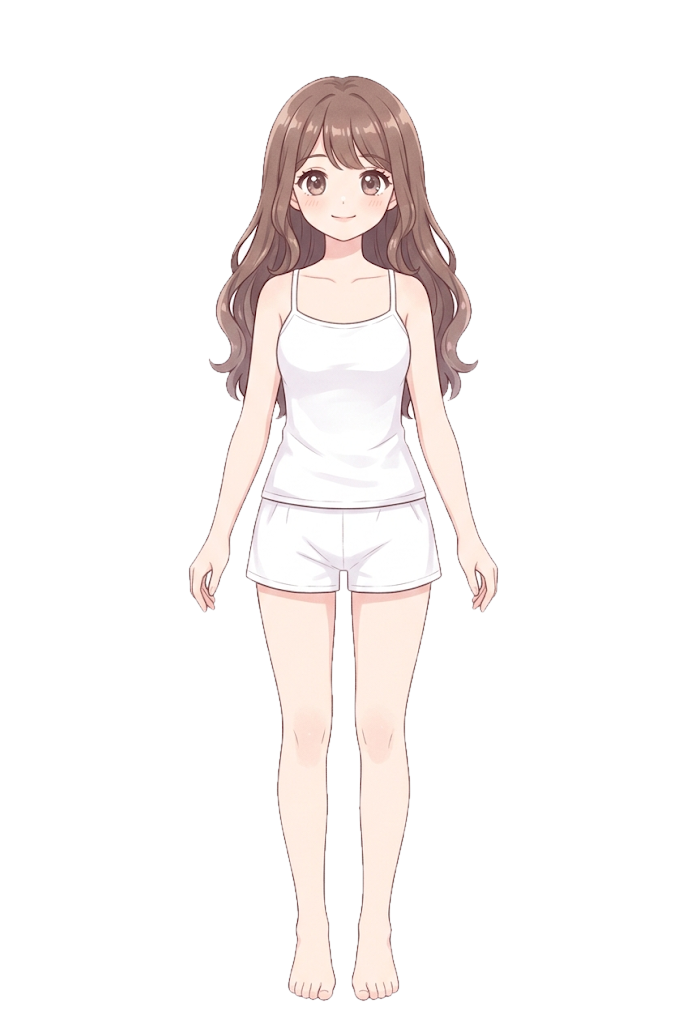
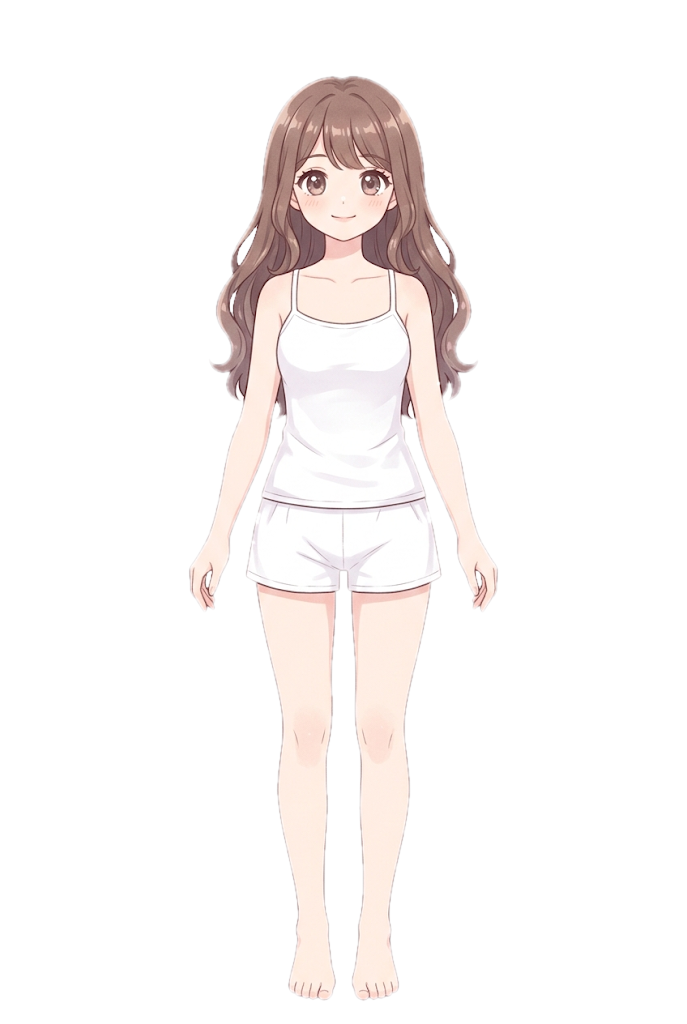
Add real layered dress-up to Dreamy Dress Up
The user's AI-edited outfit images are aligned to the base character with
optical flow, and the dress, glass heels and headband are cut out as
transparent layers. A new 'try on' mode stacks them on the base so items
can be put on and taken off. Extraction scripts kept in wardrobe/tools.

Claude-Session: https://claude.ai/code/session_016kUXdPkmavZc495ofuZ2Dx

diff --git a/wardrobe/index.html b/wardrobe/index.html
@@ -38,6 +38,13 @@ button:focus-visible, input:focus-visible { outline: 3px solid var(--pink); outl
 .stage { position: relative; border-radius: 28px; overflow: hidden; aspect-ratio: 455 / 1100; width: min(100%, calc((100vh - 190px) * 455 / 1100)); max-width: 100%; margin-inline: auto;
   box-shadow: 0 0 0 6px #fff, 0 0 0 7px var(--line), 0 24px 40px -22px rgba(160, 70, 110, .55); background: var(--pink-soft); }
 .stage img.look { position: absolute; inset: 0; width: 100%; height: 100%; object-fit: cover; object-position: 50% 100%; transition: opacity .45s ease; }
+.stage .doll { position: absolute; inset: 0; }
+.doll .dbg { position: absolute; inset: 0; width: 100%; height: 100%; object-fit: cover; }
+.doll .dlayers { position: absolute; left: 50%; bottom: 2%; height: 94%; aspect-ratio: 687 / 1024; transform: translateX(-50%); }
+.doll .dlayers img { position: absolute; inset: 0; width: 100%; height: 100%; }
+.doll .dlayers img.nofeet { -webkit-mask-image: linear-gradient(to bottom, #000 84.4%, transparent 84.6%); mask-image: linear-gradient(to bottom, #000 84.4%, transparent 84.6%); }
+.doll .dlayers img.pop { animation: pop .35s ease-out; }
+@keyframes pop { from { opacity: 0; transform: translateY(-6px); } }
 .stage .tint { position: absolute; inset: 0; mix-blend-mode: soft-light; pointer-events: none; transition: background .4s; }
 .logo { text-align: center; }
 .logo h1 { margin: 0; font-family: var(--font-logo); font-weight: 700; font-size: clamp(34px, 4vw, 44px); line-height: 1; color: var(--pink); text-shadow: 0 2px 0 #fff, 0 0 12px #fff; }
@@ -112,6 +119,7 @@ button:focus-visible, input:focus-visible { outline: 3px solid var(--pink); outl
 @keyframes drop { from { transform: translateY(-40px) rotate(6deg); opacity: 0; } }
 .polaroid .pimg { position: relative; aspect-ratio: 3 / 4; overflow: hidden; border-radius: 3px; }
 .polaroid .pimg img { width: 100%; height: 100%; object-fit: cover; object-position: 50% 12%; }
+.polaroid .pimg .doll .dlayers { height: 118%; bottom: auto; top: 2%; }
 .polaroid .pimg .tint { position: absolute; inset: 0; mix-blend-mode: soft-light; }
 .polaroid figcaption { font-family: var(--font-hand); font-size: 26px; color: var(--pink-deep); margin-top: 8px; line-height: 1.1; }
 .polaroid small { display: block; font-family: var(--font-body); font-size: 12px; color: var(--muted); text-align: right; font-variant-numeric: tabular-nums; }
@@ -129,7 +137,7 @@ button:focus-visible, input:focus-visible { outline: 3px solid var(--pink); outl
   .grid { grid-template-columns: repeat(auto-fill, minmax(96px, 1fr)); }
 }
 @media (prefers-reduced-motion: reduce) {
-  .spark, .polaroid { animation: none !important; }
+  .spark, .polaroid, .doll .dlayers img.pop { animation: none !important; }
   .stage img.look, .btn, .item .thumb, .look-btn img { transition: none; }
 }
 </style>
@@ -140,6 +148,7 @@ button:focus-visible, input:focus-visible { outline: 3px solid var(--pink); outl
       <div class="logo"><h1>Dreamy Dress Up</h1><p>나만의 스타일을 완성해봐요 ♡</p></div>
       <div class="stage" id="stage">
         <img class="look" id="lookImg" src="img/look1.jpg" alt="핑크 리본 블라우스와 체크 스커트를 입은 소녀">
+        <div class="doll" id="doll" hidden><img class="dbg" src="img/room-blur.jpg" alt=""><div class="dlayers" id="dlayers"></div></div>
         <div class="tint" id="tint"></div>
         <div class="note">오늘도<br>예쁜 너 ♡</div>
         <div class="stage-tools">
@@ -175,7 +184,7 @@ button:focus-visible, input:focus-visible { outline: 3px solid var(--pink); outl
 <div id="photo" hidden>
   <div class="photo-inner">
     <figure class="polaroid">
-      <div class="pimg"><img id="pImg" src="img/look1.jpg" alt=""><div class="tint" id="pTint"></div></div>
+      <div class="pimg" id="pBox"><img id="pImg" src="img/look1.jpg" alt=""><div class="tint" id="pTint"></div></div>
       <figcaption id="pCap">유리의 오늘 코디 ♡</figcaption>
       <small id="pDate"></small>
     </figure>
@@ -206,8 +215,17 @@ const DESC = {
   '체크 스커트': '레이어드 디테일이 있는 체크 스커트예요.', '와이드 팬츠': '편안한 연청 와이드 팬츠예요.',
   '메리제인': '리본이 달린 핑크 메리제인이에요.', '스니커즈': '깔끔한 화이트 스니커즈예요.', '롱부츠': '무릎까지 오는 블랙 롱부츠예요.', '리본 플랫슈즈': '리본이 달린 핑크 굽 슈즈예요.', '힐': '우아한 화이트 힐이에요.',
 };
-const ITEMS = RAW.map(([name, cat, file]) => ({ name, cat, img: 'img/items/' + file, desc: DESC[name] || '' }));
+/* 직접 입히기: 기본 캐릭터와 같은 크기(687×1024)로 맞춘 투명 PNG 옷 그림을 겹친다 */
+const WEAR = [
+  { name: '핑크 원피스', slot: 'dress', layer: 'img/layers/dress.png', img: 'img/layers/thumb-dress.jpg', desc: '허리 라인이 예쁜 연핑크 플레어 원피스예요.' },
+  { name: '글라스 힐', slot: 'shoes', layer: 'img/layers/shoes.png', img: 'img/layers/thumb-shoes.jpg', desc: '보석처럼 반짝이는 유리 구두예요.' },
+  { name: '화이트 머리띠', slot: 'headband', layer: 'img/layers/headband.png', img: 'img/layers/thumb-headband.jpg', desc: '깔끔하게 포인트 주는 화이트 머리띠예요.' },
+];
+const ITEMS = RAW.map(([name, cat, file]) => ({ name, cat, img: 'img/items/' + file, desc: DESC[name] || '' }))
+  .concat(WEAR.map(w => ({ ...w, cat: 'wear' })));
+const DOLL = LOOKS.length;
 const TABS = [
+  { id: 'wear', name: '입혀보기', icon: '<path d="M12 7a2 2 0 1 1 2-2"/><path d="M12 7v1L3 15c-1 1 0 2 1 2h16c1 0 2-1 1-2l-9-7"/>' },
   { id: 'hair', name: '헤어', icon: '<path d="M6 20c-1-4-1-8 1-11a5 5 0 0 1 10 0c2 3 2 7 1 11"/><path d="M8 9c2 1 6 1 8-1"/>' },
   { id: 'top', name: '상의', icon: '<path d="M8 4 4 7l2 4 2-1v10h8V10l2 1 2-4-4-3c-1 2-2.5 3-4 3S9 6 8 4z"/>' },
   { id: 'bottom', name: '하의', icon: '<path d="M7 5h10l3 14H4z"/><path d="M10 5l-1 14M14 5l1 14"/>' },
@@ -217,8 +235,8 @@ const TABS = [
 ];
 const TINTS = [['기본', 'transparent'], ['로즈', '#ff8fb8'], ['피치', '#ffc49a'], ['선샤인', '#ffe58a'], ['스카이', '#9fd3ff'], ['라벤더', '#c9a8ff'], ['무드', '#4a3a5a']];
 
-const KEY = 'dreamy-dressup-v1';
-const DEFAULT = { look: 0, tab: 'top', item: '리본 블라우스', favs: ['리본 블라우스'], saved: [], tint: 0, name: '유리' };
+const KEY = 'dreamy-dressup-v2';
+const DEFAULT = { look: DOLL, tab: 'wear', item: '핑크 원피스', favs: ['리본 블라우스'], saved: [], tint: 0, name: '유리', worn: ['핑크 원피스', '글라스 힐'] };
 let state = JSON.parse(JSON.stringify(DEFAULT));
 const $ = id => document.getElementById(id);
 const heartSvg = '<svg viewBox="0 0 24 24"><path d="M12 20s-7-4.4-7-10a4 4 0 0 1 7-2.6A4 4 0 0 1 19 10c0 5.6-7 10-7 10z"/></svg>';
@@ -226,9 +244,26 @@ const esc = s => String(s).replace(/[&<>"]/g, c => ({ '&': '&amp;', '<': '&lt;',
 
 function save() { try { localStorage.setItem(KEY, JSON.stringify(state)); } catch (e) {} }
 function load() { try { const s = JSON.parse(localStorage.getItem(KEY) || 'null'); if (s && typeof s.look === 'number') return s; } catch (e) {} return null; }
-const wearing = name => LOOKS[state.look].wear.includes(name);
+const isWear = name => WEAR.some(w => w.name === name);
+const wearing = name => state.look === DOLL ? state.worn.includes(name) : LOOKS[state.look].wear.includes(name);
+const lookTitle = () => state.look === DOLL ? '나만의' : LOOKS[state.look].title;
+const lookName = () => state.look === DOLL ? '옷 입히기' : LOOKS[state.look].name;
 
+function dollHTML(popName) {
+  const shoes = state.worn.includes('글라스 힐');
+  return `<img src="img/layers/base.png" alt="" class="${shoes ? 'nofeet' : ''}">` +
+    WEAR.filter(w => state.worn.includes(w.name)).map(w => `<img src="${w.layer}" alt="" class="${w.name === popName ? 'pop' : ''}">`).join('');
+}
+function renderDoll(popName) {
+  $('dlayers').innerHTML = dollHTML(popName);
+  const worn = WEAR.filter(w => state.worn.includes(w.name)).map(w => w.name);
+  $('doll').setAttribute('aria-label', `${state.name || '캐릭터'}: ${worn.join(', ') || '기본 옷'}`);
+}
 function renderStage(animate) {
+  const doll = state.look === DOLL;
+  $('doll').hidden = !doll; $('lookImg').hidden = doll;
+  $('tint').style.background = TINTS[state.tint][1];
+  if (doll) { renderDoll(); return; }
   const L = LOOKS[state.look], img = $('lookImg');
   if (animate && !matchMedia('(prefers-reduced-motion: reduce)').matches) {
     img.style.opacity = 0;
@@ -237,7 +272,8 @@ function renderStage(animate) {
   $('tint').style.background = TINTS[state.tint][1];
 }
 function renderLooks() {
-  $('looks').innerHTML = LOOKS.map((L, i) => `<button class="look-btn" type="button" data-look="${i}" aria-pressed="${i === state.look}"><img src="${L.face}" alt="">${L.name}</button>`).join('');
+  $('looks').innerHTML = `<button class="look-btn" type="button" data-look="${DOLL}" aria-pressed="${state.look === DOLL}"><img src="img/face4.jpg" alt="">옷 입히기</button>` +
+    LOOKS.map((L, i) => `<button class="look-btn" type="button" data-look="${i}" aria-pressed="${i === state.look}"><img src="${L.face}" alt="">${L.name}</button>`).join('');
   $('savedCount').textContent = `코디함 ${state.saved.length}`;
 }
 function renderTabs() {
@@ -248,7 +284,7 @@ function renderGrid() {
   $('grid').innerHTML = list.length ? list.map(i => `
     <div class="item" role="button" tabindex="0" data-item="${esc(i.name)}" aria-pressed="${i.name === state.item}">
       <div class="thumb"><img src="${i.img}" alt="" loading="lazy"></div>
-      ${wearing(i.name) ? '<span class="badge">착용 중</span>' : ''}
+      ${wearing(i.name) ? `<span class="badge">${isWear(i.name) ? '입는 중' : '착용 중'}</span>` : ''}
       <button class="fav" type="button" data-fav="${esc(i.name)}" aria-label="${esc(i.name)} 찜하기" aria-pressed="${state.favs.includes(i.name)}">${heartSvg}</button>
       <span class="label">${esc(i.name)}</span>
     </div>`).join('') : `<div class="empty">아직 찜한 아이템이 없어요. 마음에 드는 옷의 하트를 눌러 보세요 ♡</div>`;
@@ -256,8 +292,13 @@ function renderGrid() {
 function renderDetail() {
   const i = ITEMS.find(x => x.name === state.item) || ITEMS[0];
   const on = wearing(i.name);
+  if (isWear(i.name)) {
+    const t = state.look !== DOLL ? '누르면 옷 입히기 화면에서 입어 볼 수 있어요' : on ? '입고 있어요 · 한 번 더 누르면 벗어요' : '누르면 입어요';
+    $('detail').innerHTML = `<div class="dthumb"><img src="${i.img}" alt=""></div><div><h3>${esc(i.name)}</h3><p>${esc(i.desc)}</p><span class="state${on ? '' : ' off'}">${t}</span></div>`;
+    return;
+  }
   const others = LOOKS.filter((L, k) => k !== state.look && L.wear.includes(i.name)).map(L => L.name);
-  const stateText = on ? `지금 ${LOOKS[state.look].name}에서 입고 있어요`
+  const stateText = on ? `지금 ${lookName()}에서 입고 있어요`
     : others.length ? `${others.join(', ')}에서 입을 수 있어요`
     : '아직 입혀 볼 수 없는 옷이에요. 옷 그림이 준비되면 입힐 수 있어요';
   $('detail').innerHTML = `<div class="dthumb"><img src="${i.img}" alt=""></div><div><h3>${esc(i.name)}</h3><p>${esc(i.desc)}</p><span class="state${on ? '' : ' off'}">${stateText}</span></div>`;
@@ -293,6 +334,15 @@ $('looks').addEventListener('click', e => { const b = e.target.closest('[data-lo
 $('tabs').addEventListener('click', e => { const b = e.target.closest('[data-tab]'); if (!b) return; state.tab = b.dataset.tab; renderTabs(); renderGrid(); save(); });
 function pickItem(el) {
   const name = el.dataset.item; state.item = name;
+  if (isWear(name)) {
+    if (state.look !== DOLL) { state.look = DOLL; if (!state.worn.includes(name)) state.worn.push(name); renderStage(); renderLooks(); sparkle(); }
+    else {
+      const k = state.worn.indexOf(name);
+      if (k >= 0) { state.worn.splice(k, 1); renderDoll(); }
+      else { state.worn.push(name); renderDoll(name); sparkle(); }
+    }
+    renderGrid(); renderDetail(); save(); return;
+  }
   const idx = LOOKS.findIndex(L => L.wear.includes(name));
   if (!wearing(name) && idx >= 0) setLook(idx);
   renderGrid(); renderDetail(); save();
@@ -313,6 +363,11 @@ $('tints').addEventListener('click', e => { const b = e.target.closest('[data-ti
 $('dollName').addEventListener('input', e => { state.name = e.target.value.trim(); save(); });
 
 function randomLook() {
+  if (state.look === DOLL) {
+    do { state.worn = WEAR.filter(() => Math.random() < .55).map(w => w.name); } while (!state.worn.length);
+    state.tint = Math.floor(Math.random() * (TINTS.length - 1));
+    renderTints(); renderStage(); renderGrid(); renderDetail(); save(); sparkle(); toast('랜덤 코디 완성!'); return;
+  }
   let i; do { i = Math.floor(Math.random() * LOOKS.length); } while (i === state.look && LOOKS.length > 1);
   state.tint = Math.floor(Math.random() * (TINTS.length - 1));
   renderTints(); setLook(i); renderStage(); toast(`${LOOKS[i].title} 코디 완성!`);
@@ -320,15 +375,21 @@ function randomLook() {
 $('btnRandom').addEventListener('click', randomLook);
 $('toolRandom').addEventListener('click', randomLook);
 $('btnSave').addEventListener('click', () => {
-  const L = LOOKS[state.look];
-  state.saved.push({ look: state.look, tint: state.tint, at: Date.now() });
-  save(); renderLooks(); toast(`${L.name}을(를) 코디함에 저장했어요`);
+  state.saved.push({ look: state.look, tint: state.tint, worn: state.look === DOLL ? [...state.worn] : null, at: Date.now() });
+  save(); renderLooks(); toast(`${lookName()} 코디를 코디함에 저장했어요`);
 });
 function openPhoto() {
-  const L = LOOKS[state.look];
-  $('pImg').src = L.img; $('pImg').alt = L.alt;
+  const box = $('pBox');
+  box.querySelectorAll('.doll').forEach(n => n.remove());
+  if (state.look === DOLL) {
+    $('pImg').hidden = true;
+    box.insertAdjacentHTML('afterbegin', `<div class="doll"><img class="dbg" src="img/room-blur.jpg" alt=""><div class="dlayers">${dollHTML()}</div></div>`);
+  } else {
+    const L = LOOKS[state.look];
+    $('pImg').hidden = false; $('pImg').src = L.img; $('pImg').alt = L.alt;
+  }
   $('pTint').style.background = TINTS[state.tint][1];
-  $('pCap').textContent = `${state.name || '나'}의 ${L.title} 코디 ♡`;
+  $('pCap').textContent = `${state.name || '나'}의 ${lookTitle()} 코디 ♡`;
   const d = new Date();
   $('pDate').textContent = `${d.getFullYear()}.${String(d.getMonth() + 1).padStart(2, '0')}.${String(d.getDate()).padStart(2, '0')}`;
   $('photo').hidden = false; $('btnClose').focus();
@@ -343,8 +404,9 @@ document.addEventListener('keydown', e => { if (e.key === 'Escape' && !$('photo'
 function start(data) {
   const saved = (data && data.state) || load();
   if (saved) state = { ...JSON.parse(JSON.stringify(DEFAULT)), ...saved };
-  if (!LOOKS[state.look]) state.look = 0;
-  if (!TABS.some(t => t.id === state.tab)) state.tab = 'top';
+  if (!LOOKS[state.look] && state.look !== DOLL) state.look = DOLL;
+  if (!Array.isArray(state.worn)) state.worn = [];
+  if (!TABS.some(t => t.id === state.tab)) state.tab = 'wear';
   renderAll();
 }
 window.claude?.hot?.snapshot?.(() => ({ state }));

diff --git a/wardrobe/tools/extract2.py b/wardrobe/tools/extract2.py
@@ -1,0 +1,72 @@
+import cv2, numpy as np
+U='/root/.claude/uploads/b08912d2-b21f-5c84-9a7b-920dbd57664a/'
+base=cv2.imread(U+'7a51aae0-image.png'); H,W=base.shape[:2]
+def fgmask(img):
+    m=np.zeros((H+2,W+2),np.uint8); im=img.copy()
+    for s in [(0,0),(W-1,0),(0,H-1),(W-1,H-1)]:
+        cv2.floodFill(im,m,s,(255,0,255),(28,28,28),(28,28,28),cv2.FLOODFILL_FIXED_RANGE)
+    return (np.any(im!=(255,0,255),2)).astype(np.uint8)*255
+def align(edit):
+    g0=cv2.cvtColor(base,cv2.COLOR_BGR2GRAY); g1=cv2.cvtColor(edit,cv2.COLOR_BGR2GRAY)
+    flow=cv2.calcOpticalFlowFarneback(g0,g1,None,0.5,6,81,5,7,1.5,0)
+    flow=cv2.GaussianBlur(flow,(0,0),25)
+    gx,gy=np.meshgrid(np.arange(W),np.arange(H))
+    return cv2.remap(edit,(gx+flow[...,0]).astype(np.float32),(gy+flow[...,1]).astype(np.float32),cv2.INTER_LINEAR,borderValue=(255,255,255))
+def seeds_fill(img,seeds,tol=16):
+    total=np.zeros((H,W),np.uint8)
+    for s in seeds:
+        m=np.zeros((H+2,W+2),np.uint8)
+        cv2.floodFill(img.copy(),m,s,0,(tol,)*3,(tol,)*3,cv2.FLOODFILL_MASK_ONLY|(255<<8))
+        total|=m[1:-1,1:-1]
+    return total
+def finish(mask,close=9,dil=2):
+    mask=cv2.morphologyEx(mask,cv2.MORPH_CLOSE,np.ones((close,close),np.uint8))
+    ff=mask.copy(); cv2.floodFill(ff,np.zeros((H+2,W+2),np.uint8),(0,0),255); mask|=cv2.bitwise_not(ff)
+    mask=cv2.dilate(mask,np.ones((dil*2+1,dil*2+1),np.uint8))
+    return cv2.GaussianBlur(mask,(0,0),1.0)
+def save(name,img,a):
+    cv2.imwrite(f'layer-{name}.png',np.dstack([img,a]))
+
+# 원피스: 정렬 후 치마·몸판 안쪽에서 번지기 채우기
+d=align(cv2.imread(U+'8a44001a-image.png'))
+di=d.astype(int); B_,G_,R_=di[...,0],di[...,1],di[...,2]
+dm=(((G_-B_)<4)&((R_-G_)>14)).astype(np.uint8)*255
+roi=np.zeros_like(dm); roi[250:700,170:520]=255; dm&=roi; dm&=fgmask(d)
+dm=cv2.morphologyEx(dm,cv2.MORPH_OPEN,np.ones((3,3),np.uint8))
+dm=cv2.morphologyEx(dm,cv2.MORPH_CLOSE,np.ones((9,9),np.uint8))
+n_,lab_,st_,_=cv2.connectedComponentsWithStats(dm); k_=1+np.argmax(st_[1:,cv2.CC_STAT_AREA]); dm=(lab_==k_).astype(np.uint8)*255
+save('dress',d,finish(dm,11,2))
+
+# 구두: 발목 아래 전체를 편집본으로 교체(기본 캐릭터의 발은 페이지에서 가린다)
+s=align(cv2.imread(U+'ba5648c9-image.png'))
+sm=fgmask(s); band=np.zeros_like(sm); band[836:H,:]=255; sm&=band
+a=cv2.GaussianBlur(sm,(0,0),1.0).astype(float)
+ramp=np.clip((np.arange(H)-836)/30,0,1)[:,None]; a=(a*ramp).astype(np.uint8)
+save('shoes',s,a)
+
+# 머리띠: 편집본에서 흰 띠를 찾아 기본 캐릭터 머리 크기에 맞춰 옮긴다
+h=cv2.imread(U+'af3ef180-image.png')
+hsv=cv2.cvtColor(h,cv2.COLOR_BGR2HSV)
+white=((hsv[...,1]<45)&(hsv[...,2]>215)).astype(np.uint8)*255
+fh=fgmask(h); inside=cv2.erode(fh,np.ones((9,9),np.uint8))
+band=white&inside; band[140:,:]=0
+n,lab,st,_=cv2.connectedComponentsWithStats(band)
+i=1+np.argmax(st[1:,cv2.CC_STAT_AREA]); bm=(lab==i).astype(np.uint8)*255
+bm=cv2.dilate(bm,np.ones((5,5),np.uint8))
+def headbox(fm):
+    ys,xs=np.where(fm[:200]>0); top=ys.min()
+    row=np.where(fm[top+45]>0)[0]; return top,row.min(),row.max()
+bt,bl,br=headbox(fgmask(base)); ht,hl,hr=headbox(fh)
+sc=(br-bl)/(hr-hl); M=np.float32([[sc,0,bl-hl*sc],[0,sc,bt-ht*sc]])
+print('headband scale',sc,M)
+hw=cv2.warpAffine(h,M,(W,H),borderValue=(255,255,255)); bw=cv2.warpAffine(bm,M,(W,H))
+save('headband',hw,cv2.GaussianBlur(bw,(0,0),1.0))
+
+# 미리보기: 기본(발 가림) + 레이어
+def comp(names,hidefeet=False):
+    c=base.astype(float).copy()
+    if hidefeet: c[866:]=255
+    for n in names:
+        L=cv2.imread(f'layer-{n}.png',cv2.IMREAD_UNCHANGED); af=L[...,3:4]/255.0; c=c*(1-af)+L[...,:3]*af
+    return c.astype(np.uint8)
+cv2.imwrite('prev2.png',np.hstack([comp(['dress']),comp(['shoes'],True),comp(['headband']),comp(['dress','shoes','headband'],True)]))

diff --git a/wardrobe/tools/fixdress.py b/wardrobe/tools/fixdress.py
@@ -1,0 +1,38 @@
+import cv2, numpy as np
+exec(open('extract2.py').read().split('# 원피스')[0])
+d=align(cv2.imread(U+'8a44001a-image.png'))
+L=cv2.imread('layer-dress.png',cv2.IMREAD_UNCHANGED)
+fe=cv2.erode(fgmask(d),np.ones((3,3),np.uint8)); L[...,3]=np.minimum(L[...,3],cv2.GaussianBlur(fe,(0,0),.8))
+m=(L[...,3]>40).astype(np.uint8)*255
+# 1) 몸판 위 머리카락 조각 → 원피스 색으로 메우기
+dark=((d[...,2].astype(int)<215)&(m>0)).astype(np.uint8)*255
+box=np.zeros_like(dark); box[272:352,282:408]=255; dark&=box
+dark=cv2.morphologyEx(dark,cv2.MORPH_OPEN,np.ones((5,5),np.uint8))
+hair=cv2.dilate(dark,np.ones((13,13),np.uint8))&box
+img=cv2.inpaint(d,hair,15,cv2.INPAINT_TELEA)
+# 2) 기본 캐미솔이 원피스 밖으로 보이는 곳
+hsv=cv2.cvtColor(base,cv2.COLOR_BGR2HSV)
+wb=((hsv[...,1]<11)&(hsv[...,2]>238)).astype(np.uint8)*255
+tb=np.zeros_like(wb); tb[244:430,250:440]=255; wb&=tb; wb&=cv2.bitwise_not(cv2.erode(m,np.ones((3,3),np.uint8)))
+straps=wb.copy(); straps[318:]=0
+sides=wb.copy(); sides[:318]=0
+skin=base[255:262,336:350].reshape(-1,3).mean(0)
+pink=img[320:340,330:356].reshape(-1,3).mean(0)
+line=img[395:400,300:390].reshape(-1,3).min(0)  # 허리선 색 근처의 어두운 선
+sides=cv2.dilate(sides,cv2.getStructuringElement(cv2.MORPH_ELLIPSE,(5,5))); img[sides>0]=pink
+# 캐미솔 끈 자리에 원피스 어깨끈을 그린다(바깥선 포함)
+straps=cv2.morphologyEx(straps,cv2.MORPH_CLOSE,cv2.getStructuringElement(cv2.MORPH_ELLIPSE,(9,9)))
+st_in=cv2.dilate(straps,cv2.getStructuringElement(cv2.MORPH_ELLIPSE,(7,7))); st_out=cv2.dilate(straps,cv2.getStructuringElement(cv2.MORPH_ELLIPSE,(11,11)))
+st_out&=cv2.bitwise_not(m); st_in&=cv2.bitwise_not(m)
+img[st_out>0]=np.array([150,140,175]); img[st_in>0]=pink
+alpha=np.maximum.reduce([L[...,3],cv2.GaussianBlur(st_out,(0,0),.7),cv2.GaussianBlur(sides,(0,0),.7)])
+out=np.dstack([img,alpha]); out[alpha==0]=0
+cv2.imwrite('layer-dress.png',out)
+B=cv2.imread('base-clean.png',cv2.IMREAD_UNCHANGED)
+bg=np.full((H,W,3),(200,170,230),float)
+def comp(names):
+    c=bg.copy()
+    for Lr in [B]+[cv2.imread(f'layer-{n}.png',cv2.IMREAD_UNCHANGED) for n in names]:
+        af=Lr[...,3:4]/255.0; c=c*(1-af)+Lr[...,:3]*af
+    return c.astype(np.uint8)
+cv2.imwrite('prev5.png',np.hstack([cv2.resize(comp([])[220:430,250:440],None,fx=2.2,fy=2.2),cv2.resize(comp(['dress'])[220:430,250:440],None,fx=2.2,fy=2.2)]))

diff --git a/wardrobe/tools/fixshoes.py b/wardrobe/tools/fixshoes.py
@@ -1,0 +1,23 @@
+import cv2, numpy as np
+exec(open('extract2.py').read().split('# 원피스')[0])
+L=cv2.imread('layer-shoes.png',cv2.IMREAD_UNCHANGED)
+s=align(cv2.imread(U+'ba5648c9-image.png'))
+fb=fgmask(base); fs=fgmask(s)
+def edges(fm,y,lo,hi):
+    xs=np.where(fm[y,lo:hi]>0)[0]+lo; return xs.min(),xs.max()
+Y0,Y1=866,940
+mapx=np.tile(np.arange(W,dtype=np.float32),(H,1)); mapy=np.tile(np.arange(H,dtype=np.float32)[:,None],(1,W))
+for lo,hi in [(230,343),(343,460)]:
+    bl,br=edges(fb,Y0,lo,hi); sl,sr=edges(fs,Y0,lo,hi)
+    print('leg',lo,(bl,br),(sl,sr))
+    for y in range(820,H):
+        t=1.0 if y<=Y0 else max(0.0,1-(y-Y0)/(Y1-Y0))
+        if t==0: continue
+        # 기본 다리 폭(bl..br)에 오도록 편집본 다리(sl..sr)를 늘린다: 출력 x → 원본 x
+        xs=np.arange(lo,hi,dtype=np.float32)
+        src=sl+(xs-bl)*(sr-sl)/max(1,(br-bl))
+        mapx[y,lo:hi]=xs*(1-t)+src*t
+out=cv2.remap(L,mapx,mapy,cv2.INTER_LINEAR,borderMode=cv2.BORDER_CONSTANT,borderValue=(0,0,0,0))
+cv2.imwrite('layer-shoes.png',out)
+c=base.astype(float).copy(); c[Y0:]=255; af=out[...,3:4]/255.0; c=c*(1-af)+out[...,:3]*af
+z=c[780:1024,230:470].astype(np.uint8); cv2.imwrite('zoom-shoes.png',cv2.resize(z,None,fx=2,fy=2))
